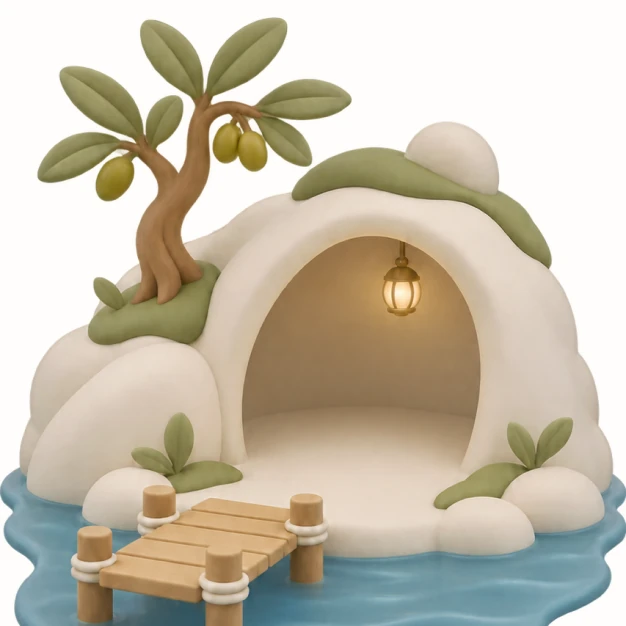
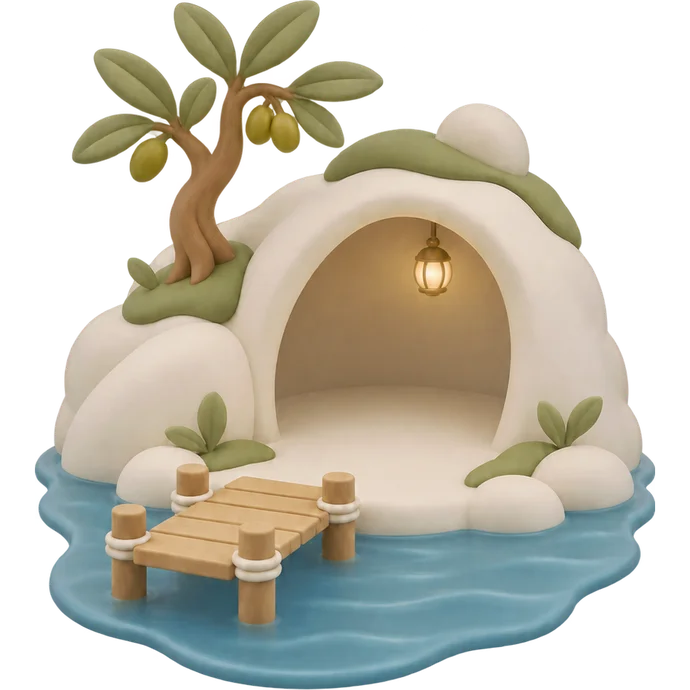
fix(island): 섬 그림 배경을 투명으로 - Figma 원본 투명 PNG에서 섬 전체를 잘라 690px WebP로 교체(홈과 공용), 흰 네모가 크림색 화면에서 보이던 문제, 곱하기 섞기 제거

diff --git a/src/features/island/IslandScene.module.css b/src/features/island/IslandScene.module.css
@@ -15,8 +15,6 @@
   max-height: 100%;
   aspect-ratio: 1;
   object-fit: contain;
-  /* 그림의 흰 바탕이 크림색 화면 바탕(--color-bg) 위에서 네모로 보이지 않게 곱하기로 섞는다 */
-  mix-blend-mode: multiply;
   /* 홈의 섬 그림(features/home/IslandHero)과 같은 이름 — 홈 ↔ 섬 꾸미기 전환 때 그림이 제자리로 옮겨 간다 */
   view-transition-name: island;
 }
